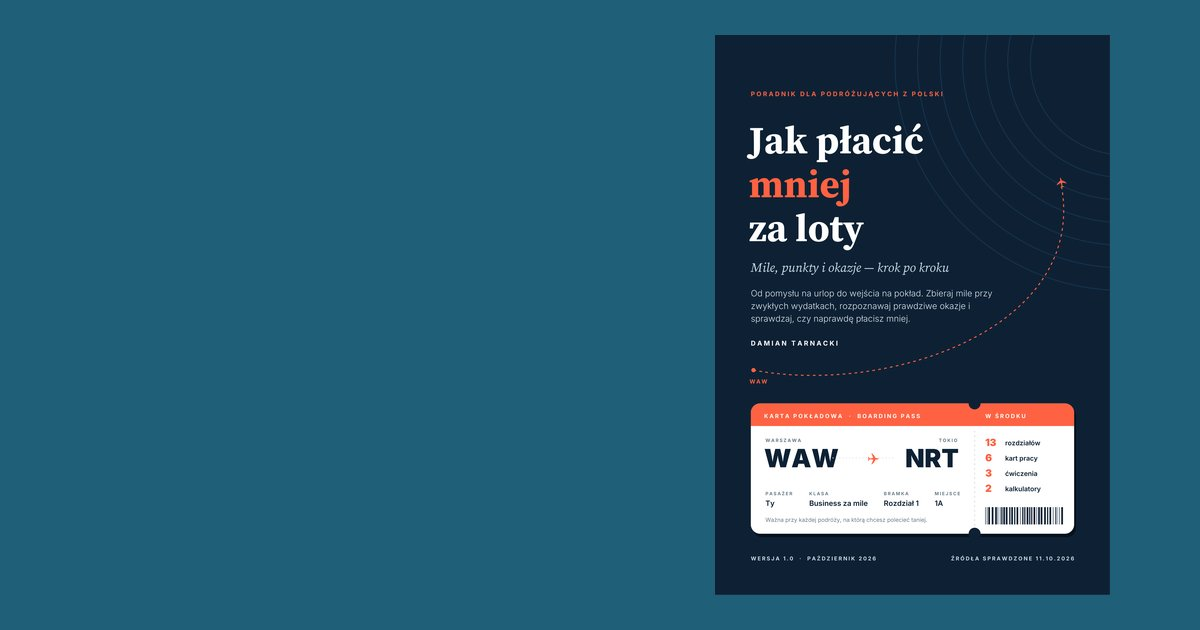
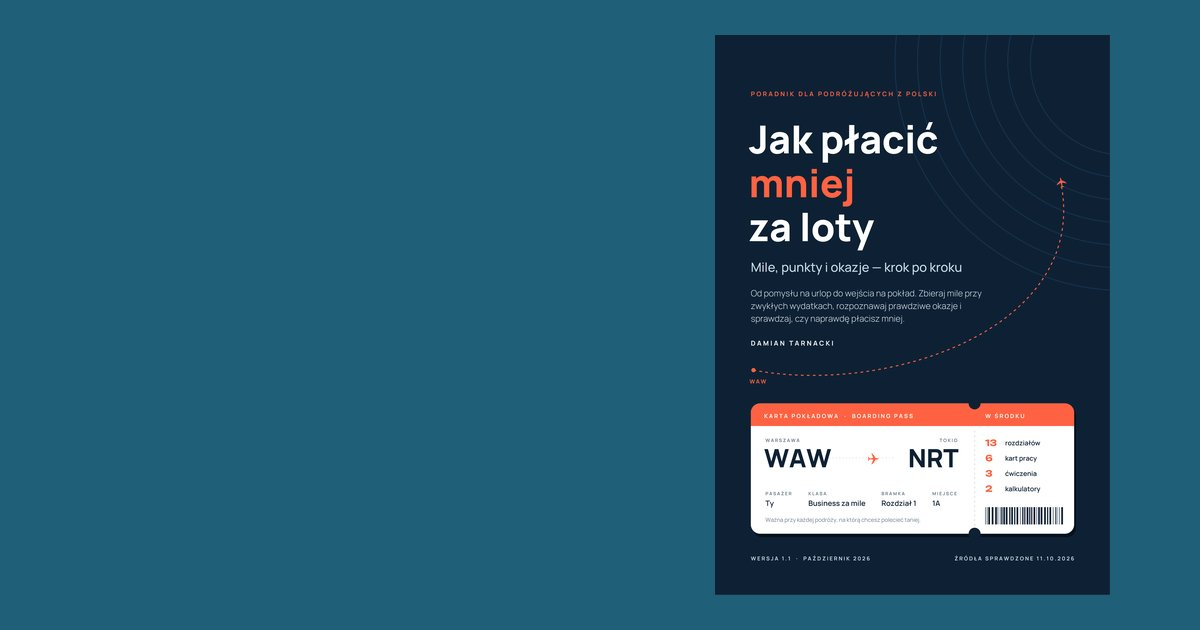
Okładka i podgląd stron ebooka z wersji 1.1 (fonty WARNA)
Claude-Session: https://claude.ai/code/session_019VQgXPR5hEQKZbpgQv1d3L

diff --git a/travels/tansze-loty/index.html b/travels/tansze-loty/index.html
@@ -193,7 +193,7 @@ footer p{margin:0}
         </div>
         <p class="placeholder-note">Podgląd: płatność nie jest jeszcze podłączona, a cena jest do ustalenia.</p>
         <ul class="facts">
-          <li>PDF, 55 stron</li>
+          <li>PDF, 54 strony</li>
           <li>Kalkulator w przeglądarce</li>
           <li>Źródła sprawdzone 11.10.2026</li>
         </ul>
@@ -278,7 +278,7 @@ footer p{margin:0}
       <ul class="pages">
         <li><figure><img src="assets/strona-5.jpg" width="760" height="1075" loading="lazy" alt="Strona otwierająca rozdział 1: Zacznij od podróży, na którą naprawdę chcesz polecieć"><figcaption><b>Rozdział 1</b>Zaczynasz od podróży, nie od programu.</figcaption></figure></li>
         <li><figure><img src="assets/strona-9.jpg" width="760" height="1075" loading="lazy" alt="Strona z rozdziału 3: tabela kodów opłat na bilecie WAW–SFO–WAW"><figcaption><b>Rozdział 3</b>Każdy kod opłaty na prawdziwym bilecie.</figcaption></figure></li>
-        <li><figure><img src="assets/strona-47.jpg" width="760" height="1075" loading="lazy" alt="Karta pracy 3: Ocena konkretnej oferty"><figcaption><b>Karta pracy 3 z 6</b>Ocena konkretnej oferty, gotowa do druku.</figcaption></figure></li>
+        <li><figure><img src="assets/strona-46.jpg" width="760" height="1075" loading="lazy" alt="Karta pracy 3: Ocena konkretnej oferty"><figcaption><b>Karta pracy 3 z 6</b>Ocena konkretnej oferty, gotowa do druku.</figcaption></figure></li>
       </ul>
     </div>
   </section>
@@ -329,7 +329,7 @@ footer p{margin:0}
       <div class="faq">
         <details>
           <summary>W jakim formacie jest ebook?</summary>
-          <p>To PDF w formacie A4, 55 stron. Przeczytasz go na komputerze, tablecie i telefonie, a karty pracy możesz wydrukować. Kalkulator to osobny plik, który otwierasz w przeglądarce na swoim komputerze.</p>
+          <p>To PDF w formacie A4, 54 strony. Przeczytasz go na komputerze, tablecie i telefonie, a karty pracy możesz wydrukować. Kalkulator to osobny plik, który otwierasz w przeglądarce na swoim komputerze.</p>
         </details>
         <details>
           <summary>Zaczynam od zera. Czy to dla mnie?</summary>
